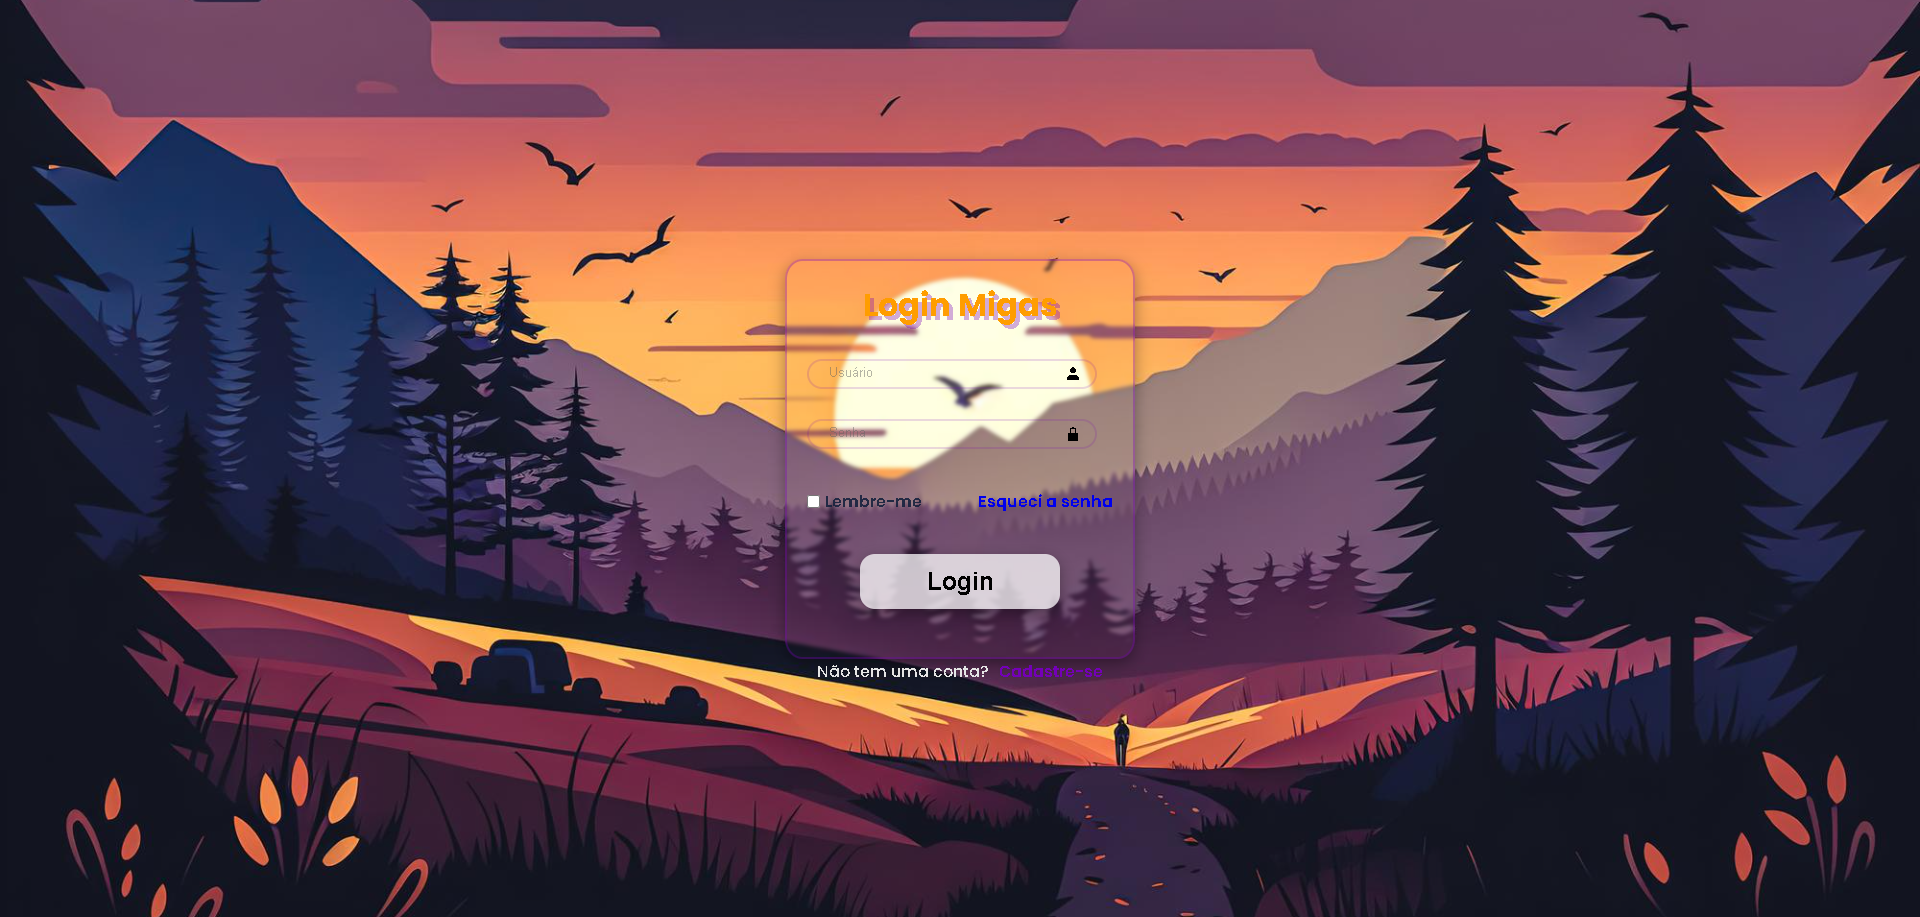
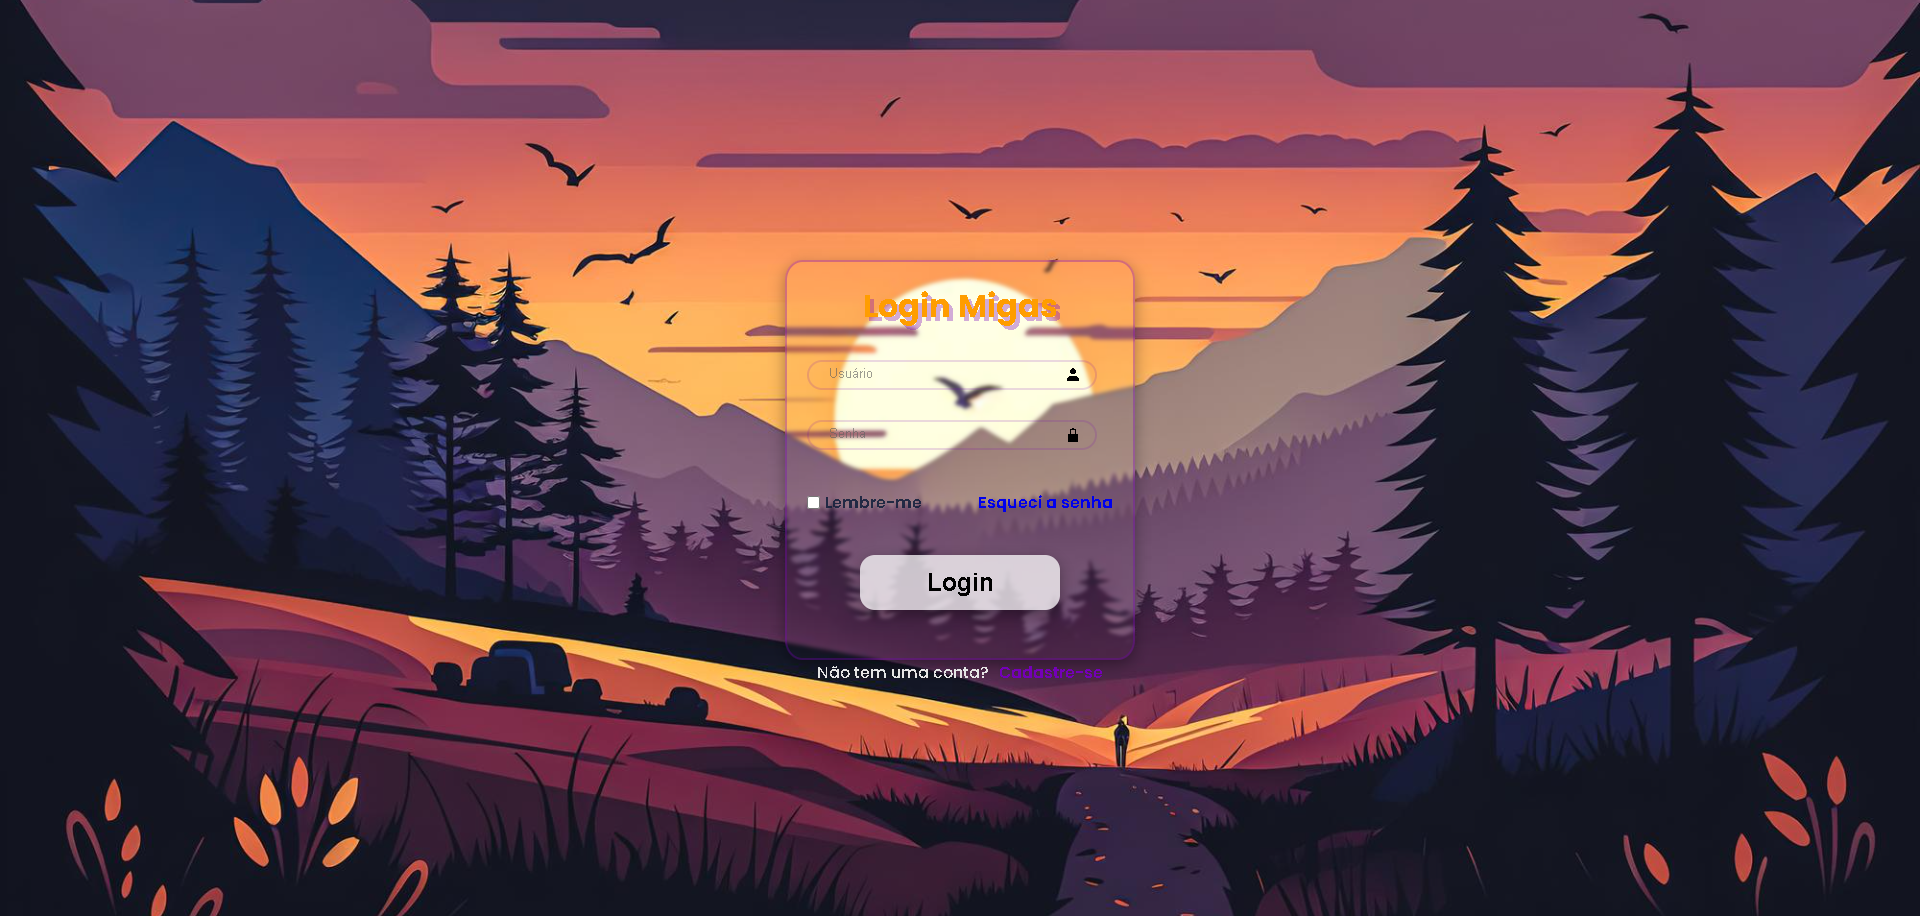
Readme

diff --git a/style.css b/style.css
@@ -58,7 +58,7 @@ h1 {
 }
 
 .input-box input::placeholder {
-  color: #61616179;
+  color: #6161619f;
   font-weight: 500;
 }
 

diff --git a/index.html b/index.html
@@ -46,5 +46,3 @@
 
 </body>
 </html>
-
-
